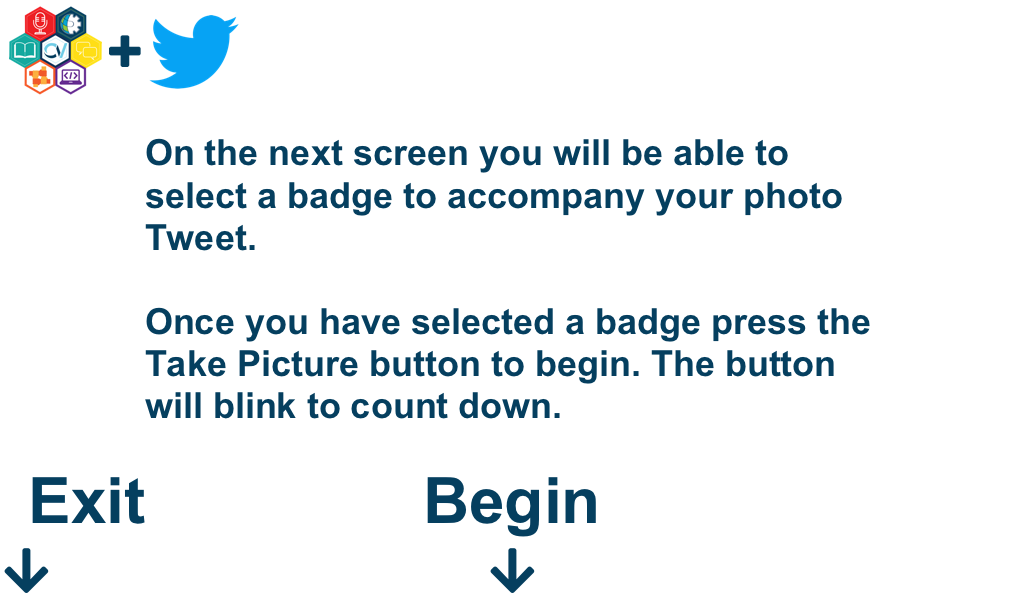
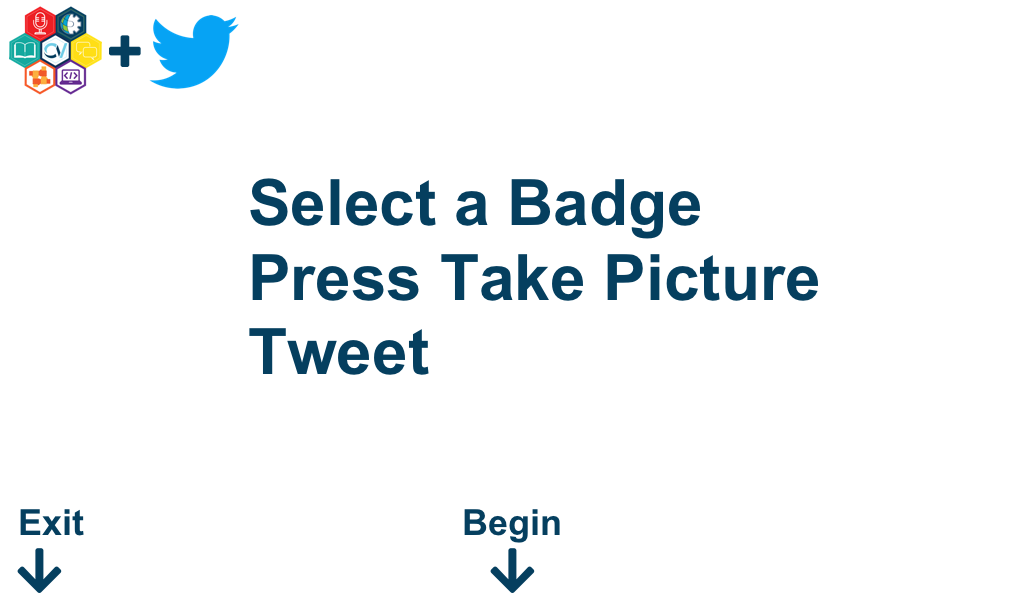
Tweek to instructions

diff --git a/Photo.py b/Photo.py
@@ -190,12 +190,12 @@ class PhotoBoothFunction(object):
 
     def display_success_message(self):
         print "Photo Tweeted"
-        self.textprinter.print_text([["Photo Tweeted #CVconference", 124, config.black_colour, "cm", 0]], 0, True)
+        self.textprinter.print_text([["Photo Tweeted #CVconference", 64, config.black_colour, "cm", 0]], 0, True)
         time.sleep(2)
 
     def display_error_message(self):
         print "Error with Tweet"
-        self.textprinter.print_text([["Oops, please try again", 124, config.black_colour, "cm", 0]], 0, True)
+        self.textprinter.print_text([["Oops, please try again", 64, config.black_colour, "cm", 0]], 0, True)
         time.sleep(2)
 
     # *** Show user where their photos have been uploaded to ***
@@ -240,7 +240,7 @@ class PhotoBoothFunction(object):
         pass
 
     def process_photos(self):
-        self.textprinter.print_text([["Processing photos ...", 48, config.black_colour, "cb", 25]],
+        self.textprinter.print_text([["Tweeting photo...", 48, config.black_colour, "cb", 25]],
                                     0, True)
         self.photohandler.prepare_images(self.image_extension, self.image_defs, True)
         self.filehandler.zip_images(self.image_extension, self.zip_filename)
